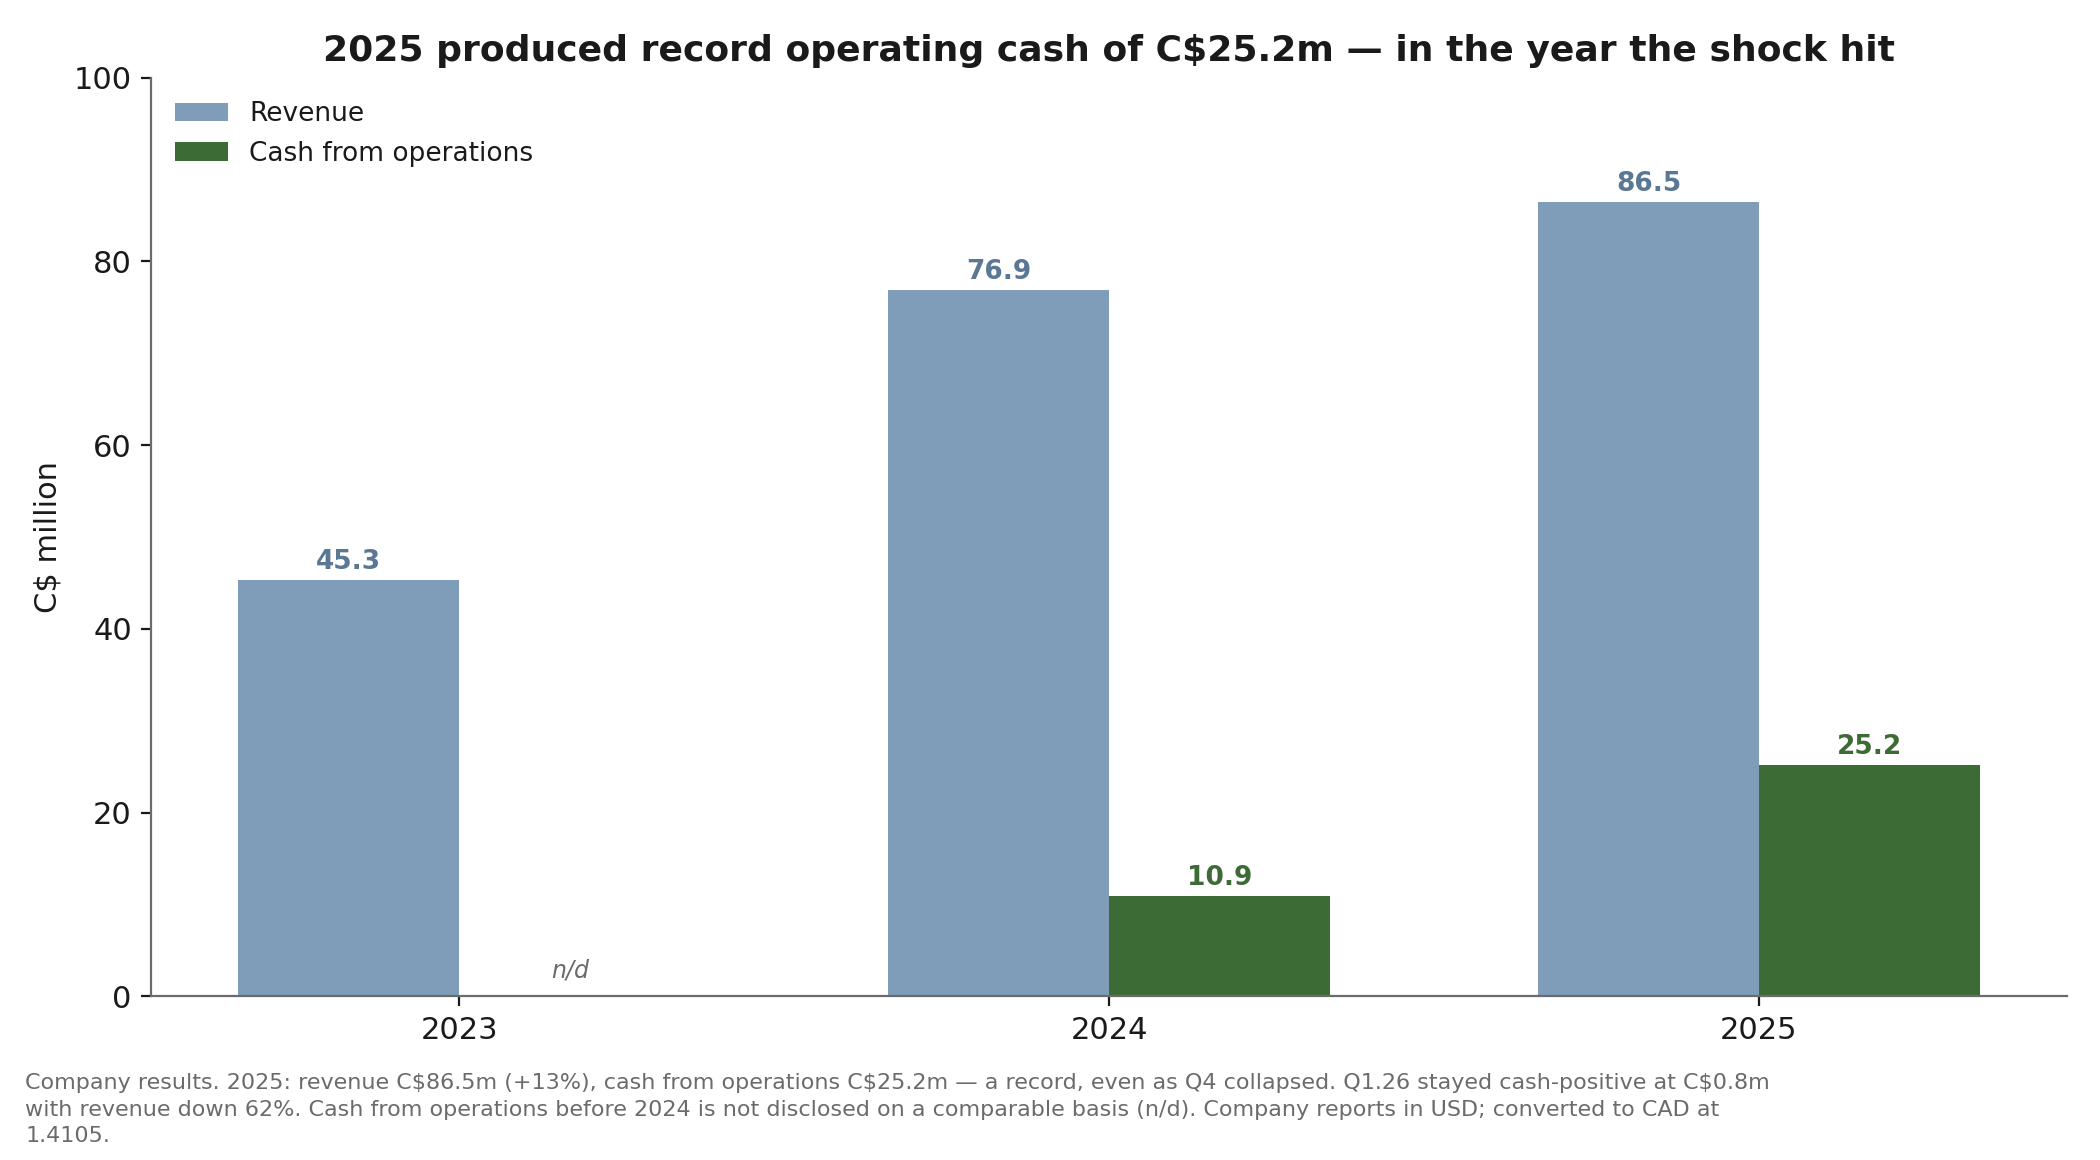
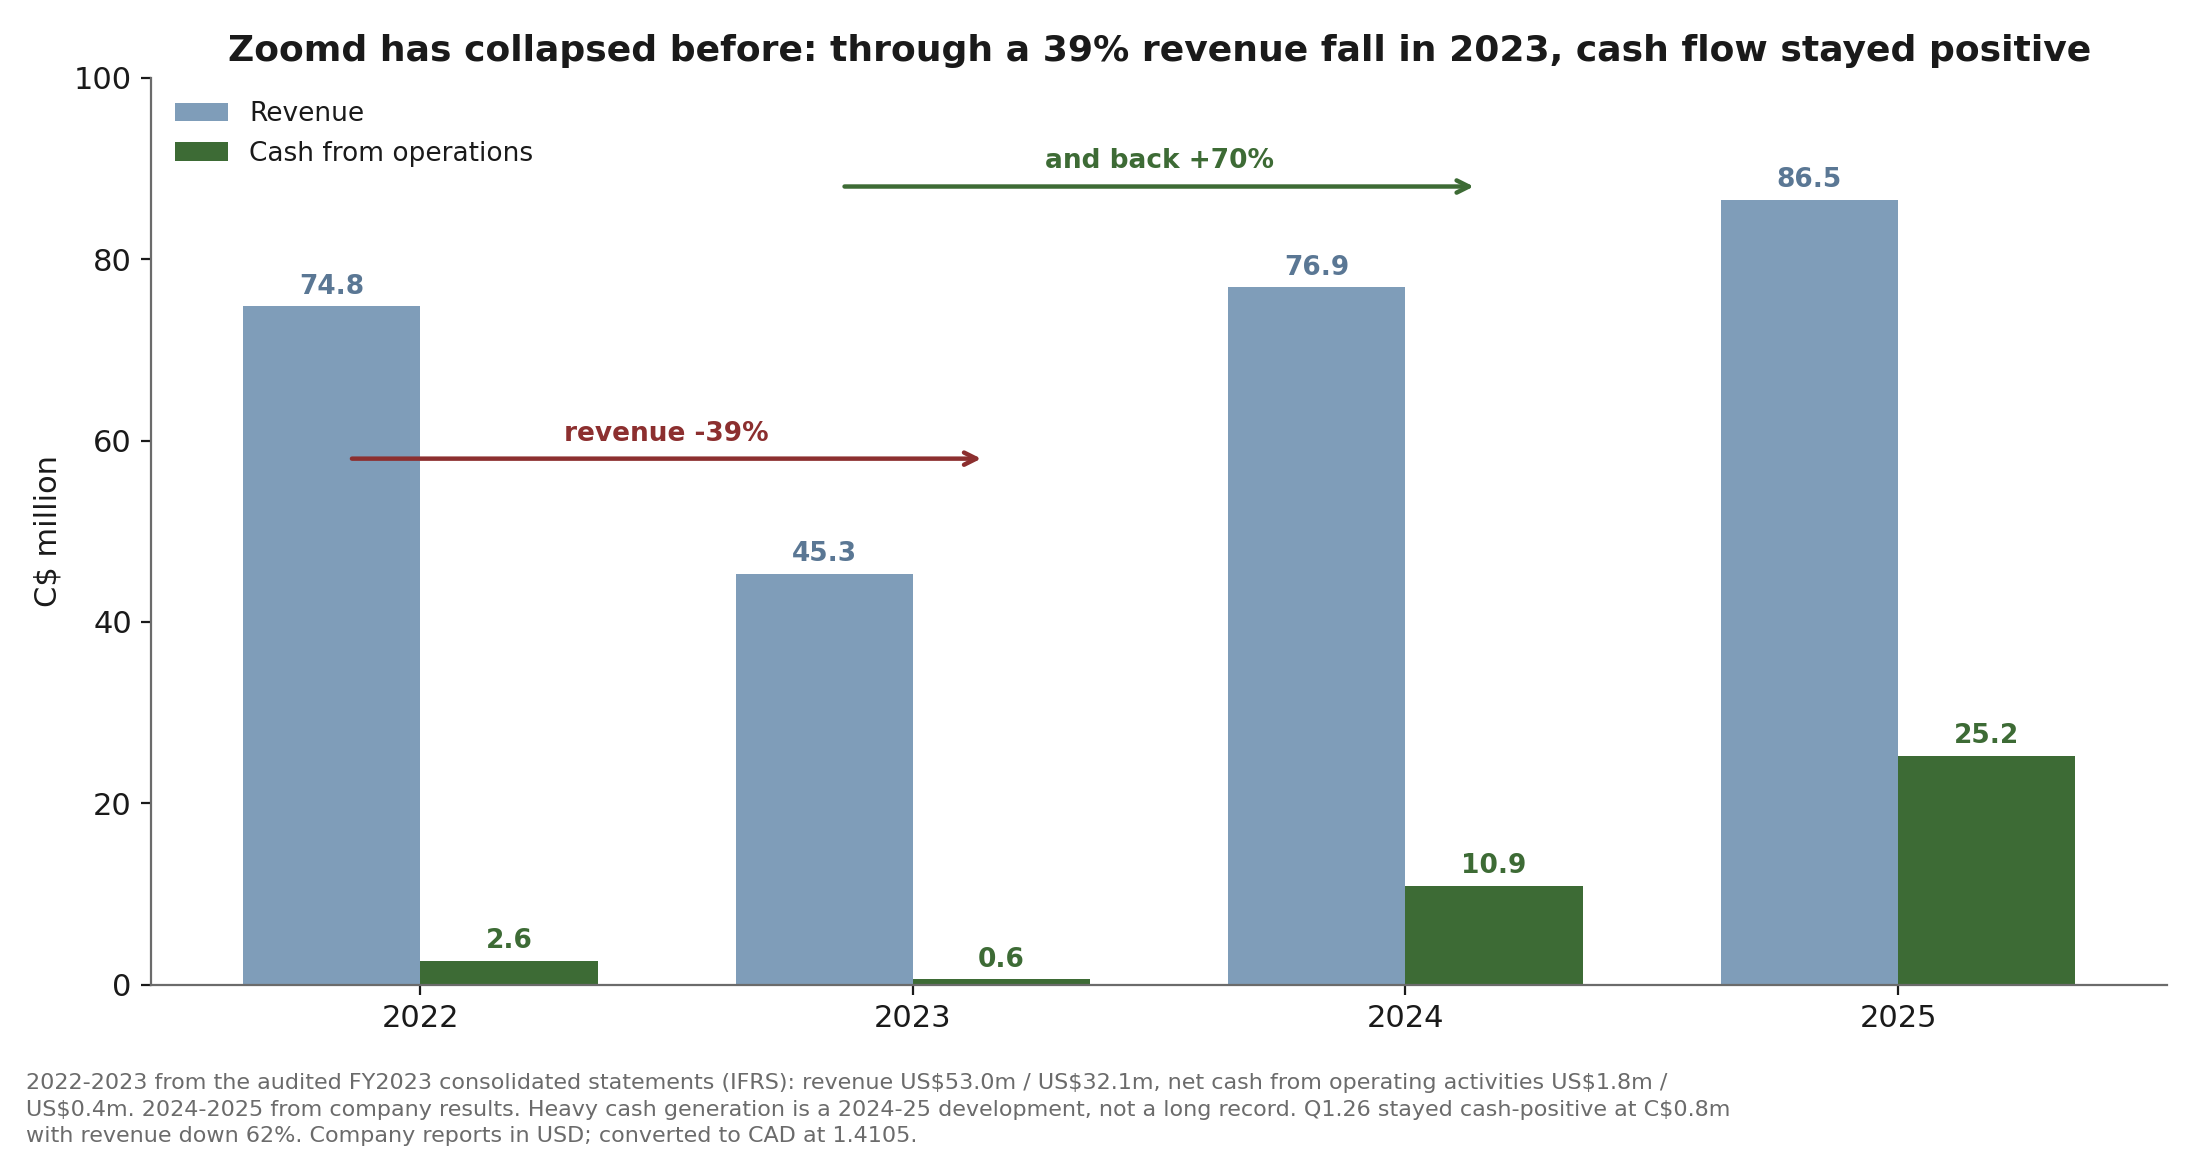
Zoomd: audited FY2023 statements correct two figures and add the 2023 precedent
Primary source: audited consolidated financial statements for FY2023
(IFRS, Deloitte Israel, April 2024). Two numbers in the source pack were
wrong and are now corrected against the filing:

- 2022 revenue was US$53.0m, not the ~$40m estimate (off by a third).
- 2023 cash from operations was US$0.428m, not $7.7m - that figure was
  the 2024 number duplicated, as suspected.

Chart 3 now runs the full audited 2022-2025 series for both revenue and
cash from operations, so no year is missing or estimated.

The filings also support a new section, replacing the generic
"still cash-generative" one: in 2023 revenue fell 39%, management cut 40%
of staff, C$4.0m of capitalised software was written off and the shares
went from C$0.175 to C$0.065 - and operating cash flow still stayed
positive, with revenue recovering 70% the year after. That is a real base
rate for the current episode, sourced entirely to audited primaries.

Also added, and it cuts against the thesis: heavy cash generation is only
a 2024-25 development (C$2.6m and C$0.6m in 2022-23). Both languages now
say so explicitly rather than implying a durable C$25m run-rate, with a
matching risk bullet.

Other additions from the filings: ~US$20m of unrecognised tax-loss
carryforwards in the valuation section, and an Israel operating
concentration risk (Herzliya office, NIS/USD mismatch, Note 1E).

diff --git a/_theses_en/zomd-v.md b/_theses_en/zomd-v.md
@@ -44,13 +44,19 @@ This is a process interruption, not a lost account or a competitive defeat. Bohe
 
 The bear counterpoint deserves stating, because it is fair: in Q1.26 management also cut roughly 20% of the workforce to "align cost structure with current activity levels," and a company confident in an imminent recovery does not usually cut a fifth of its staff. The generous reading is cost discipline that protects cash while the transition plays out; the skeptical reading is that management expects the reduced run-rate to persist. The thesis does not require resolving that debate — only that the cash floor holds while the upside levers have time to work.
 
-## The business is still cash-generative
+## Zoomd has been here before
 
-Zoomd's cost structure is largely variable, so when clients pull back, the costs pull back with them.
+The most useful thing in Zoomd's history is that this is the second collapse, not the first — and the audited accounts show what happened last time.
 
-![Still cash-generative](../../assets/theses/ZOMD.V/cash_generative.png)
+![The 2023 precedent](../../assets/theses/ZOMD.V/cash_generative.png)
 
-The bulk of cost of revenue is publisher and traffic-source spend, which contracts directly with revenue; the fixed base is primarily Israeli salaries and a single Herzliya office. That is why 2025 — the year the shock hit — still delivered record operating cash flow of C$25.2m on revenue of C$86.5m, and why Q1.26, with revenue down 62%, still produced positive operating cash flow of C$0.8m. A business that stays cash-positive at halved revenue does not burn through a C$31.7m cash pile. The 20% headcount cut reinforces that floor.
+In 2023 revenue fell 39%, from C$74.8m to C$45.3m. Management cut about 40% of the workforce, wrote off C$4.0m of capitalised software as unrecoverable, and the shares fell from C$0.175 to C$0.065. It looked terminal. Two things then happened: the business stayed cash-positive throughout — net cash from operations was C$0.6m in 2023, thin but never negative — and revenue recovered 70% the following year, to C$76.9m.
+
+That is the base rate the market appears to be ignoring. The pattern now rhymes with 2023: a revenue collapse, a workforce cut, a share price down roughly two-thirds. Last time the cost structure absorbed it and the business came back.
+
+The mechanism is the same in both episodes. The bulk of cost of revenue is publisher and traffic-source spend, which contracts directly with revenue; the fixed base is primarily Israeli salaries and a single Herzliya office. That is why Q1.26, with revenue down 62%, still produced positive operating cash flow of C$0.8m — the same thin-but-positive shape as 2023. A business that stays cash-positive at halved revenue does not burn through a C$31.7m cash pile.
+
+One thing the chart does not let me claim, though, and it matters: **heavy cash generation is a 2024-25 development, not a long record.** Operating cash flow was C$2.6m in 2022 and C$0.6m in 2023 before stepping up to C$10.9m and then C$25.2m. Two strong years is evidence that the model can generate real cash at scale; it is not proof that C$25.2m is a level to underwrite. The floor argument rests on the business staying cash-positive, which it has done in every year on record. The upside argument rests on it getting back toward the 2024-25 range, which is a judgement, not a given.
 
 ## The asymmetry
 
@@ -80,13 +86,17 @@ At a C$48.9m market cap with C$31.7m of net cash, the market prices the entire o
 
 One caveat on the cash-flow figure: 2025 operating cash flow of C$25.2m ran well ahead of the prior year and benefited from working-capital timing in a business whose receivables swing with campaign volume. Treat it as evidence of a genuinely cash-generative model, not as a run-rate.
 
+There is also an unrecognised asset here. At December 2023 Zoomd carried roughly US$20m of tax losses forward, with no deferred tax asset recognised against them because taxable income was not then in sight. Those losses shelter a meaningful slice of the profits earned since. It is not a reason to own the stock, but it does mean reported profits convert to cash better than a 23% Israeli corporate rate would suggest.
+
 ## Risks, honestly weighted
 
 - **Customer concentration is the core risk, and it just bit.** Two customers were 57% of FY25 revenue; the top ten were ~86%. The second paused customer may not fully return.
 - **The 20% headcount cut cuts both ways.** It protects cash, but it may signal that management expects the reduced run-rate to persist. Take it as evidence, not reassurance.
 - **The recovery is genuinely uncertain.** Management's own language is "early signs of realignment" for one customer and "visibility remains limited" for the other. Some analysts who covered the name took losses and exited after Q1.26.
 - **The new-client cohort has to keep scaling.** 30% of Q1.26 revenue from 2025 cohorts is encouraging, but it has to grow enough to offset the lost concentration, and new clients can churn.
+- **The cash-generation record is short.** Two strong years (2024-25) follow two thin ones (C$2.6m and C$0.6m of operating cash flow in 2022 and 2023). The business has always been cash-positive, but the scale of recent cash generation has not yet been tested across a full cycle.
 - **MarTech is competitive and platform-dependent.** Privacy changes cut both ways — they create the complexity Zoomd sells into, but they also constrain the whole ecosystem's measurability.
+- **Operations are concentrated in Israel.** Staff, the single office and the functional cost base sit in Herzliya, which brings both geopolitical exposure — the company flagged the October 2023 attack and the subsequent conflict in its accounts — and currency mismatch, since costs are largely in shekels against USD revenue.
 - **M&A execution risk.** Buying sub-scale firms for their client books is sensible in theory, but retaining acquired customers is not guaranteed, and capital spent on a bad deal is gone.
 - **Microcap illiquidity and FX.** Thin TSXV trading, a CAD quote on a USD-reporting business, and a small float mean this is a long-term ownership stake, not a trade. The CAD figures here move with the exchange rate as well as with the business.
 

diff --git a/_theses_es/zomd-v.md b/_theses_es/zomd-v.md
@@ -44,13 +44,19 @@ Es una interrupción de proceso, no una cuenta perdida ni una derrota competitiv
 
 El contraargumento bajista merece mencionarse, porque es justo: en el Q1.26 la dirección también recortó cerca del 20% de la plantilla para "alinear la estructura de costes con los niveles de actividad actuales", y una empresa convencida de una recuperación inminente no suele recortar una quinta parte de su personal. La lectura generosa es disciplina de costes que protege la caja mientras la transición se resuelve; la escéptica, que la dirección espera que el nivel reducido de actividad persista. La tesis no exige resolver ese debate — solo que el suelo de caja aguante mientras las palancas de subida tienen tiempo de funcionar.
 
-## El negocio sigue generando caja
+## Zoomd ya ha estado aquí antes
 
-La estructura de costes de Zoomd es mayoritariamente variable, así que cuando los clientes recortan, los costes recortan con ellos.
+Lo más útil de la historia de Zoomd es que este es el segundo desplome, no el primero — y las cuentas auditadas muestran qué pasó la vez anterior.
 
-![Sigue generando caja](../../assets/theses/ZOMD.V/cash_generative.png)
+![El precedente de 2023](../../assets/theses/ZOMD.V/cash_generative.png)
 
-El grueso del coste de ventas es gasto en publishers y fuentes de tráfico, que se contrae directamente con los ingresos; la base fija son principalmente salarios en Israel y una única oficina en Herzliya. Por eso 2025 — el año en que golpeó el shock — aun así entregó un flujo de caja operativo récord de C$25.2M sobre ingresos de C$86.5M, y por eso el Q1.26, con los ingresos un 62% abajo, todavía produjo un flujo de caja operativo positivo de C$0.8M. Un negocio que sigue en caja positiva con los ingresos a la mitad no quema una posición de C$31.7M. El recorte del 20% de plantilla refuerza ese suelo.
+En 2023 los ingresos cayeron un 39%, de C$74.8M a C$45.3M. La dirección recortó cerca del 40% de la plantilla, dio de baja C$4.0M de software capitalizado por irrecuperable, y la acción pasó de C$0.175 a C$0.065. Parecía terminal. Entonces ocurrieron dos cosas: el negocio se mantuvo en caja positiva todo el tiempo — el flujo de caja neto de operaciones fue de C$0.6M en 2023, exiguo pero nunca negativo — y los ingresos se recuperaron un 70% al año siguiente, hasta C$76.9M.
+
+Esa es la base de partida que el mercado parece estar ignorando. El patrón actual rima con 2023: desplome de ingresos, recorte de plantilla, cotización un dos tercios abajo. La vez anterior la estructura de costes lo absorbió y el negocio volvió.
+
+El mecanismo es el mismo en ambos episodios. El grueso del coste de ventas es gasto en publishers y fuentes de tráfico, que se contrae directamente con los ingresos; la base fija son principalmente salarios en Israel y una única oficina en Herzliya. Por eso el Q1.26, con los ingresos un 62% abajo, todavía produjo un flujo de caja operativo positivo de C$0.8M — la misma forma exigua pero positiva que en 2023. Un negocio que sigue en caja positiva con los ingresos a la mitad no quema una posición de C$31.7M.
+
+Hay algo, eso sí, que el gráfico no me permite afirmar, y es importante: **la generación fuerte de caja es un fenómeno de 2024-25, no un historial largo.** El flujo de caja operativo fue de C$2.6M en 2022 y C$0.6M en 2023 antes de saltar a C$10.9M y luego a C$25.2M. Dos años fuertes son prueba de que el modelo puede generar caja real a escala; no son prueba de que C$25.2M sea un nivel sobre el que construir la tesis. El argumento del suelo se apoya en que el negocio siga en caja positiva, cosa que ha hecho todos los años de los que hay registro. El argumento de la subida se apoya en que vuelva hacia el rango de 2024-25, y eso es un juicio, no un hecho.
 
 ## La asimetría
 
@@ -80,13 +86,17 @@ Con una capitalización de C$48.9M y C$31.7M de caja neta, el mercado valora tod
 
 Una matización sobre la cifra de flujo de caja: los C$25.2M de 2025 superaron ampliamente los del año anterior y se beneficiaron del calendario del circulante en un negocio cuyas cuentas a cobrar oscilan con el volumen de campañas. Tómalo como prueba de un modelo genuinamente generador de caja, no como nivel recurrente.
 
+Hay además un activo no reconocido. A diciembre de 2023 Zoomd arrastraba unos US$20M de pérdidas fiscales sin activo por impuesto diferido reconocido, porque entonces no se preveía base imponible. Esas pérdidas protegen una parte relevante de los beneficios obtenidos desde entonces. No es una razón para comprar la acción, pero sí implica que el beneficio contable se convierte en caja mejor de lo que sugeriría el 23% de tipo corporativo israelí.
+
 ## Riesgos, ponderados con honestidad
 
 - **La concentración de clientes es el riesgo central, y acaba de morder.** Dos clientes fueron el 57% de los ingresos de FY25; los diez primeros, cerca del 86%. El segundo cliente pausado puede no volver del todo.
 - **El recorte del 20% de plantilla corta por los dos lados.** Protege la caja, pero puede señalar que la dirección espera que el nivel reducido persista. Tómalo como evidencia, no como tranquilidad.
 - **La recuperación es genuinamente incierta.** El propio lenguaje de la dirección es "señales tempranas de realineamiento" para un cliente y "visibilidad limitada" para el otro. Algunos analistas que cubrían el valor asumieron pérdidas y salieron tras el Q1.26.
 - **La cohorte de nuevos clientes tiene que seguir escalando.** Que el 30% de los ingresos del Q1.26 venga de cohortes de 2025 es alentador, pero tiene que crecer lo bastante para compensar la concentración perdida, y los clientes nuevos también pueden irse.
+- **El historial de generación de caja es corto.** Dos años fuertes (2024-25) siguen a dos flojos (C$2.6M y C$0.6M de flujo de caja operativo en 2022 y 2023). El negocio siempre ha estado en caja positiva, pero la magnitud de la generación reciente aún no se ha puesto a prueba a lo largo de un ciclo completo.
 - **El MarTech es competitivo y dependiente de plataformas.** Los cambios de privacidad cortan por los dos lados: crean la complejidad que Zoomd vende, pero también limitan la medibilidad de todo el ecosistema.
+- **Las operaciones están concentradas en Israel.** La plantilla, la única oficina y la base de costes están en Herzliya, lo que trae exposición geopolítica — la compañía señaló en sus cuentas el ataque de octubre de 2023 y el conflicto posterior — y desajuste de divisa, ya que los costes son en buena parte en shekels frente a ingresos en dólares.
 - **Riesgo de ejecución en M&A.** Comprar firmas subescala por su cartera de clientes es sensato en teoría, pero retener a esos clientes no está garantizado, y el capital gastado en una mala operación es capital perdido.
 - **Iliquidez de microcap y divisa.** La negociación fina en el TSXV, una cotización en CAD sobre un negocio que reporta en USD y un free float pequeño hacen de esto una participación a largo plazo, no un trade. Las cifras en CAD de esta tesis se mueven con el tipo de cambio además de con el negocio.
 